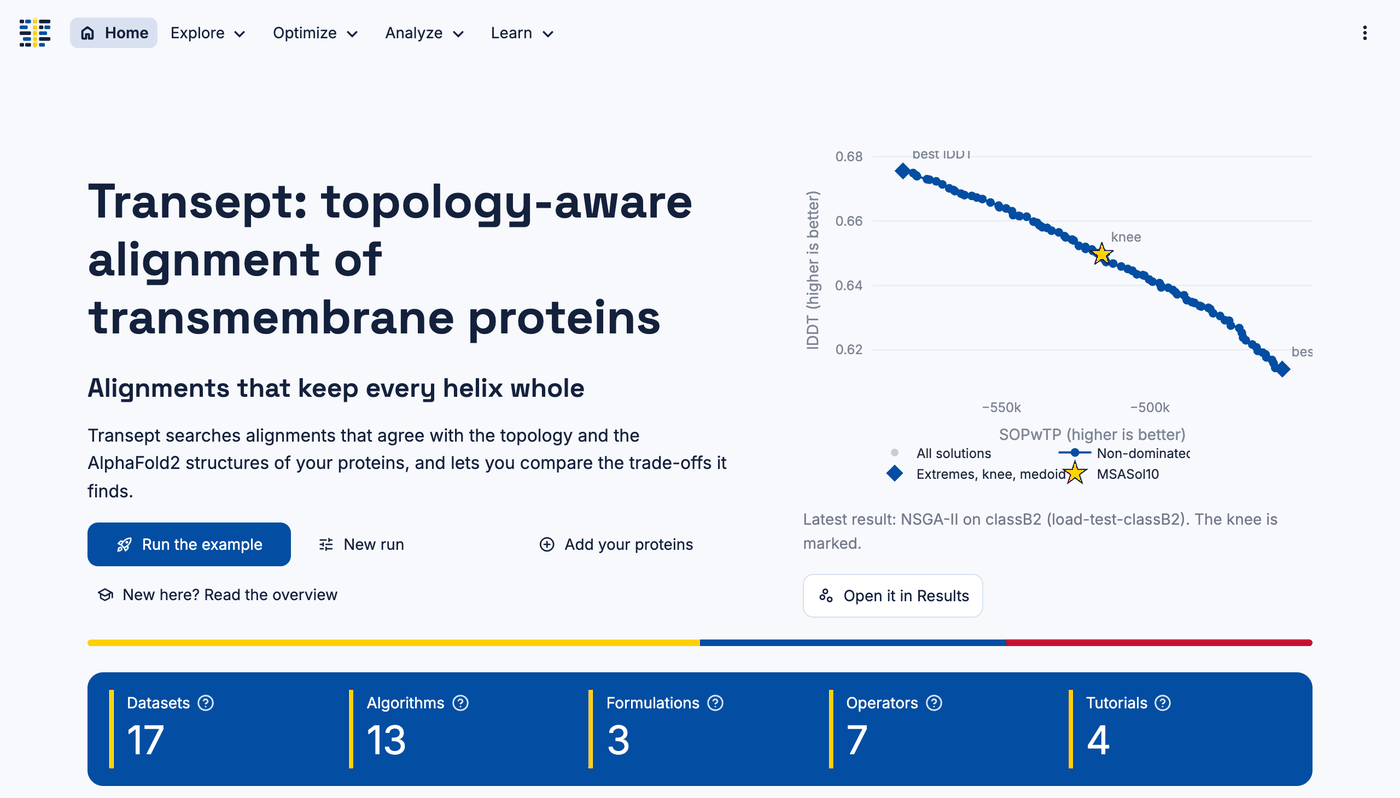
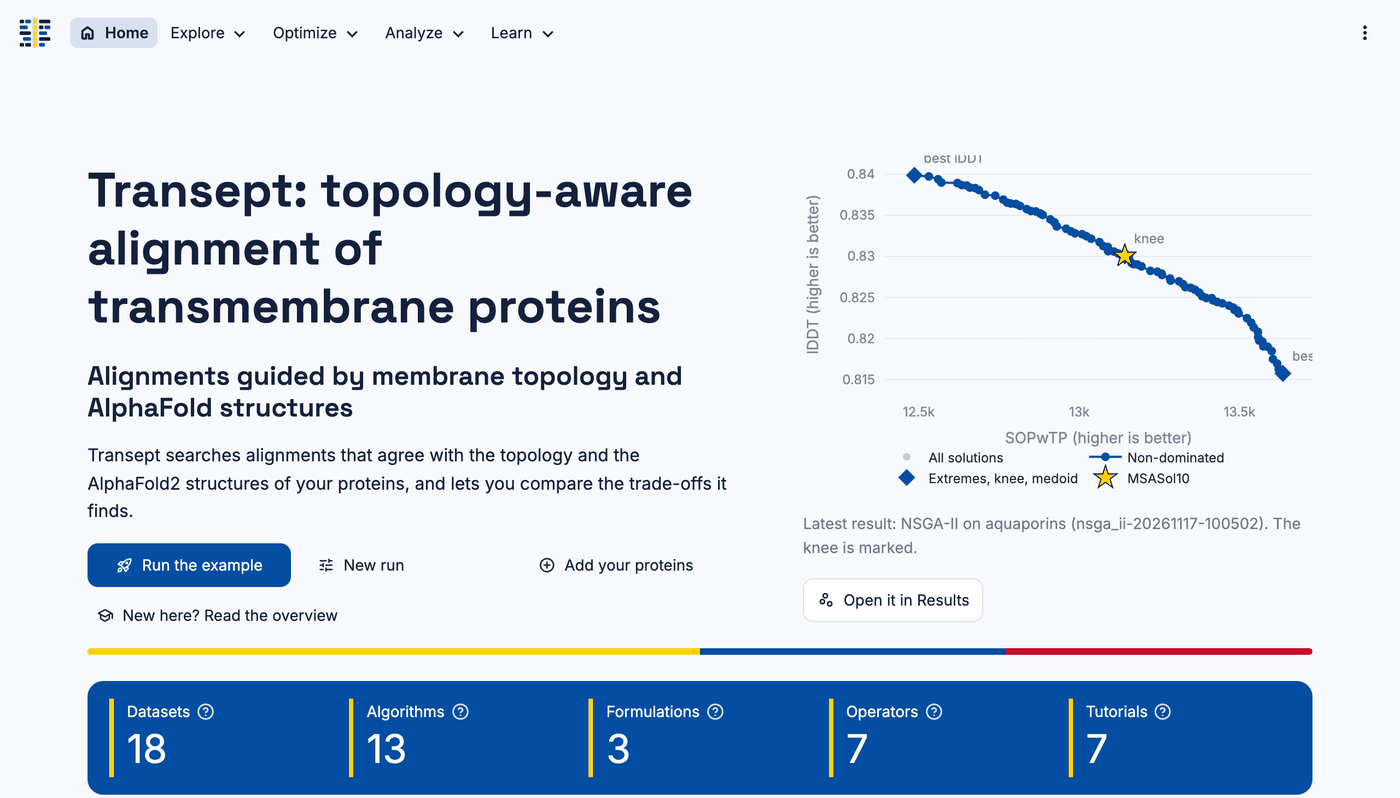
fix: say that the search never opens a gap inside a helix, not that helices stay whole
The search keeps the gaps inside helices that the seed alignments already
have, so the results can contain them. The subtitle of the home page, the
overview, the tutorials and the descriptions of the operators now say what
the operators guarantee, and point to Repair the seeds.

diff --git a/transept/ensemble.py b/transept/ensemble.py
@@ -5,7 +5,8 @@ structural one. Instead of asking the user to choose among them, the set can be 
 of plausible alignments: where they agree, the alignment does not depend on the trade-off; where
 they disagree, it does. This module measures how much they agree, and finds the **medoid**: the
 alignment of the set that agrees most with all the others, a consensus that is still one of the
-alignments found by the search (so its objectives are known and it keeps the helices whole).
+alignments found by the search (so its objectives are known, and it has no gap inside a helix
+that its seed alignments did not already have).
 
 Agreement between two alignments of the same proteins is their pair F1: twice the residue pairs
 aligned in both, over the pairs aligned in either. It is symmetric, and 1 only for alignments

diff --git a/pages/home.py b/pages/home.py
@@ -133,7 +133,7 @@ def render_hero(current: settings.Settings, problems: list[str], summary) -> Non
 
 def render_presentation(current: settings.Settings, problems: list[str]) -> None:
     st.title("Transept: topology-aware alignment of transmembrane proteins")
-    st.markdown("#### Alignments that keep every helix whole")
+    st.markdown("#### Alignments guided by membrane topology and AlphaFold structures")
     st.markdown(
         "Transept searches alignments that agree with the topology and the AlphaFold2 structures "
         "of your proteins, and lets you compare the trade-offs it finds."

diff --git a/transept/home_panel.py b/transept/home_panel.py
@@ -183,8 +183,8 @@ def project_facts(datasets: int, repositories: int, tutorials: int) -> list[Fact
         Fact(
             "Operators",
             str(len(options.CROSSOVERS) + len(options.MUTATIONS)),
-            f"{len(options.CROSSOVERS)} crossovers and {len(options.MUTATIONS)} mutations, none "
-            "of them breaks a helix",
+            f"{len(options.CROSSOVERS)} crossovers and {len(options.MUTATIONS)} mutations; none "
+            "of them opens a gap inside a helix",
         ),
         Fact("Tutorials", str(tutorials), "Guides inside Transept, in Learn"),
     ]

diff --git a/transept/options.py b/transept/options.py
@@ -65,7 +65,7 @@ PARAMETER_HELP = {
     "that keeps the best solutions found during the whole run.",
     "archiveType": "With an external archive: bounded by crowding distance, or unbounded.",
     "populationSizeWithArchive": "Population size when an external archive is used.",
-    "mutation": "Mutation operator; every one keeps the transmembrane helices whole.",
+    "mutation": "Mutation operator; none of them opens a gap inside a transmembrane helix.",
     "crossover": "Crossover operator; neither cuts a transmembrane helix.",
     "selection": "How the parents are chosen.",
 }

diff --git a/transept/uniprot_import.py b/transept/uniprot_import.py
@@ -7,7 +7,8 @@ and the answers are kept under TRANSEPT_HOME, so nothing is asked twice.
 
 The topology comes from the features of the UniProt entry: `Transmembrane` and `Intramembrane`
 (re-entrant half-helices, such as those of aquaporins) are marked as transmembrane (M), so the
-search never breaks them; `Topological domain` gives the cytoplasmic (I) and the other (O) sides.
+search never opens a gap inside them; `Topological domain` gives the cytoplasmic (I) and the other
+(O) sides.
 """
 
 from __future__ import annotations

diff --git a/docs/tutorials/overview.md b/docs/tutorials/overview.md
@@ -24,20 +24,20 @@ guided by:
 
 | Criterion | What it means |
 | --- | --- |
-| **Topology** | Its operators never open a gap inside a transmembrane helix |
+| **Topology** | Its operators never open a gap inside a transmembrane helix (gaps that the seed alignments already have there are kept) |
 | **Sequence** (SOPwTP) | A sum of pairs that takes the topology into account |
 | **Structure** (lDDT) | Whether aligned residues keep similar distances in the 3D structures, for example those of AlphaFold |
 
 Sequence and structure can pull in different directions, so the search ends with **a set of
 alternative alignments** that trade one for the other.
 
-![How Transept works: seed alignments are refined by a search that never breaks a helix, guided by sequence and structure; from the set of trade-off alignments it gives a recommended alignment and a reliability map](images/workflow.svg)
+![How Transept works: seed alignments are refined by a search that never opens a gap inside a helix, guided by sequence and structure; from the set of trade-off alignments it gives a recommended alignment and a reliability map](images/workflow.svg)
 
 ## What you get that other aligners do not give you
 
 | | What it means for you |
 | --- | --- |
-| **Helices kept whole** | The search never opens a gap inside a transmembrane helix. Seed alignments often have such gaps, and Results shows them in red |
+| **No new gaps inside helices** | The search never opens a gap inside a transmembrane helix. Gaps that the seed alignments already have there are kept: Results shows them in red, and **Repair the seeds** in **New run** moves them out of the seeds before the search |
 | **Structure taken into account** | The AlphaFold2 (or experimental) structures guide the search, and you can see the structures superposed according to the alignment |
 | **Better than its starting point** | The search starts from the alignments of other tools and keeps improving them; Results draws those seed alignments beside the result, so you see what was gained |
 | **A recommended alignment** | You do not have to choose among the alignments found: the **knee**, a balanced point of the trade-off, is a good default |
@@ -208,7 +208,8 @@ For those who study the search itself:
   versions and others, with two random searches as a baseline. **Algorithms** lists them with
   their parameters, and **New run** lets you set them, or paste a whole configuration;
   [Choose an algorithm](choose-an-algorithm.md) explains them.
-- **With what operators.** Crossovers and mutations designed so that none of them breaks a helix;
+- **With what operators.** Crossovers and mutations designed so that none of them opens a gap inside a
+  helix;
   [Choose the operators](operators.md) explains them and what we have seen them do.
 - **From where.** The seed alignments of any of the tools in the dataset, those Transept computes
   itself, or both.

diff --git a/docs/tutorials/why-several-objectives.md b/docs/tutorials/why-several-objectives.md
@@ -103,7 +103,7 @@ guarantee of a more correct alignment, but things that a single score cannot giv
 | --- | --- | --- |
 | **What it balances** | One score, with weights and gap penalties fixed by its authors | Sequence and structure, with the trade-off in view: you can see what each alignment gains in one and loses in the other |
 | **Structure** | Not used by sequence aligners; structural aligners rely mainly on the structures; a few, such as 3D-Coffee, mix both into one score | Both, kept apart: the AlphaFold2 models and the sequences, each with its own measure |
-| **Topology** | Ignored by general aligners, so gaps can fall inside a helix; a few, such as PRALINE-TM or TM-Aligner, use it | The search never opens a gap inside a helix |
+| **Topology** | Ignored by general aligners, so gaps can fall inside a helix; a few, such as PRALINE-TM or TM-Aligner, use it | The search never opens a gap inside a helix; those of the seed alignments are kept, unless you repair the seeds |
 | **Several tools at once** | Each gives its own answer, and you choose without a common measure | Their alignments are the starting points, scored with the same two measures: the chart shows where each tool stands, and what the search found beyond them |
 | **Choosing for your purpose** | One alignment, whatever you will do with it | An alignment closer to the structures for mapping residues onto them, or closer to the sequence for evolutionary analyses, from the same run |
 | **Which columns to trust** | Not said; other programs (GUIDANCE, the TCS of T-Coffee) estimate it by running more alignments | The **Support** track, from the alignments of the run itself |

diff --git a/CHANGELOG.md b/CHANGELOG.md
@@ -6,6 +6,13 @@ All notable changes to Transept are recorded here. The format follows
 
 ## [Unreleased]
 
+### Fixed
+
+- What the interface and the tutorials say about helices: the search never opens a gap inside a
+  transmembrane helix, but keeps those that the seed alignments already have (**Repair the seeds**
+  in **New run** moves them out first). The subtitle of the home page no longer promises whole
+  helices.
+
 ### Added
 
 - Sections by use case: Explore, Optimize, Analyze and Learn, with a home page that leads to them.
